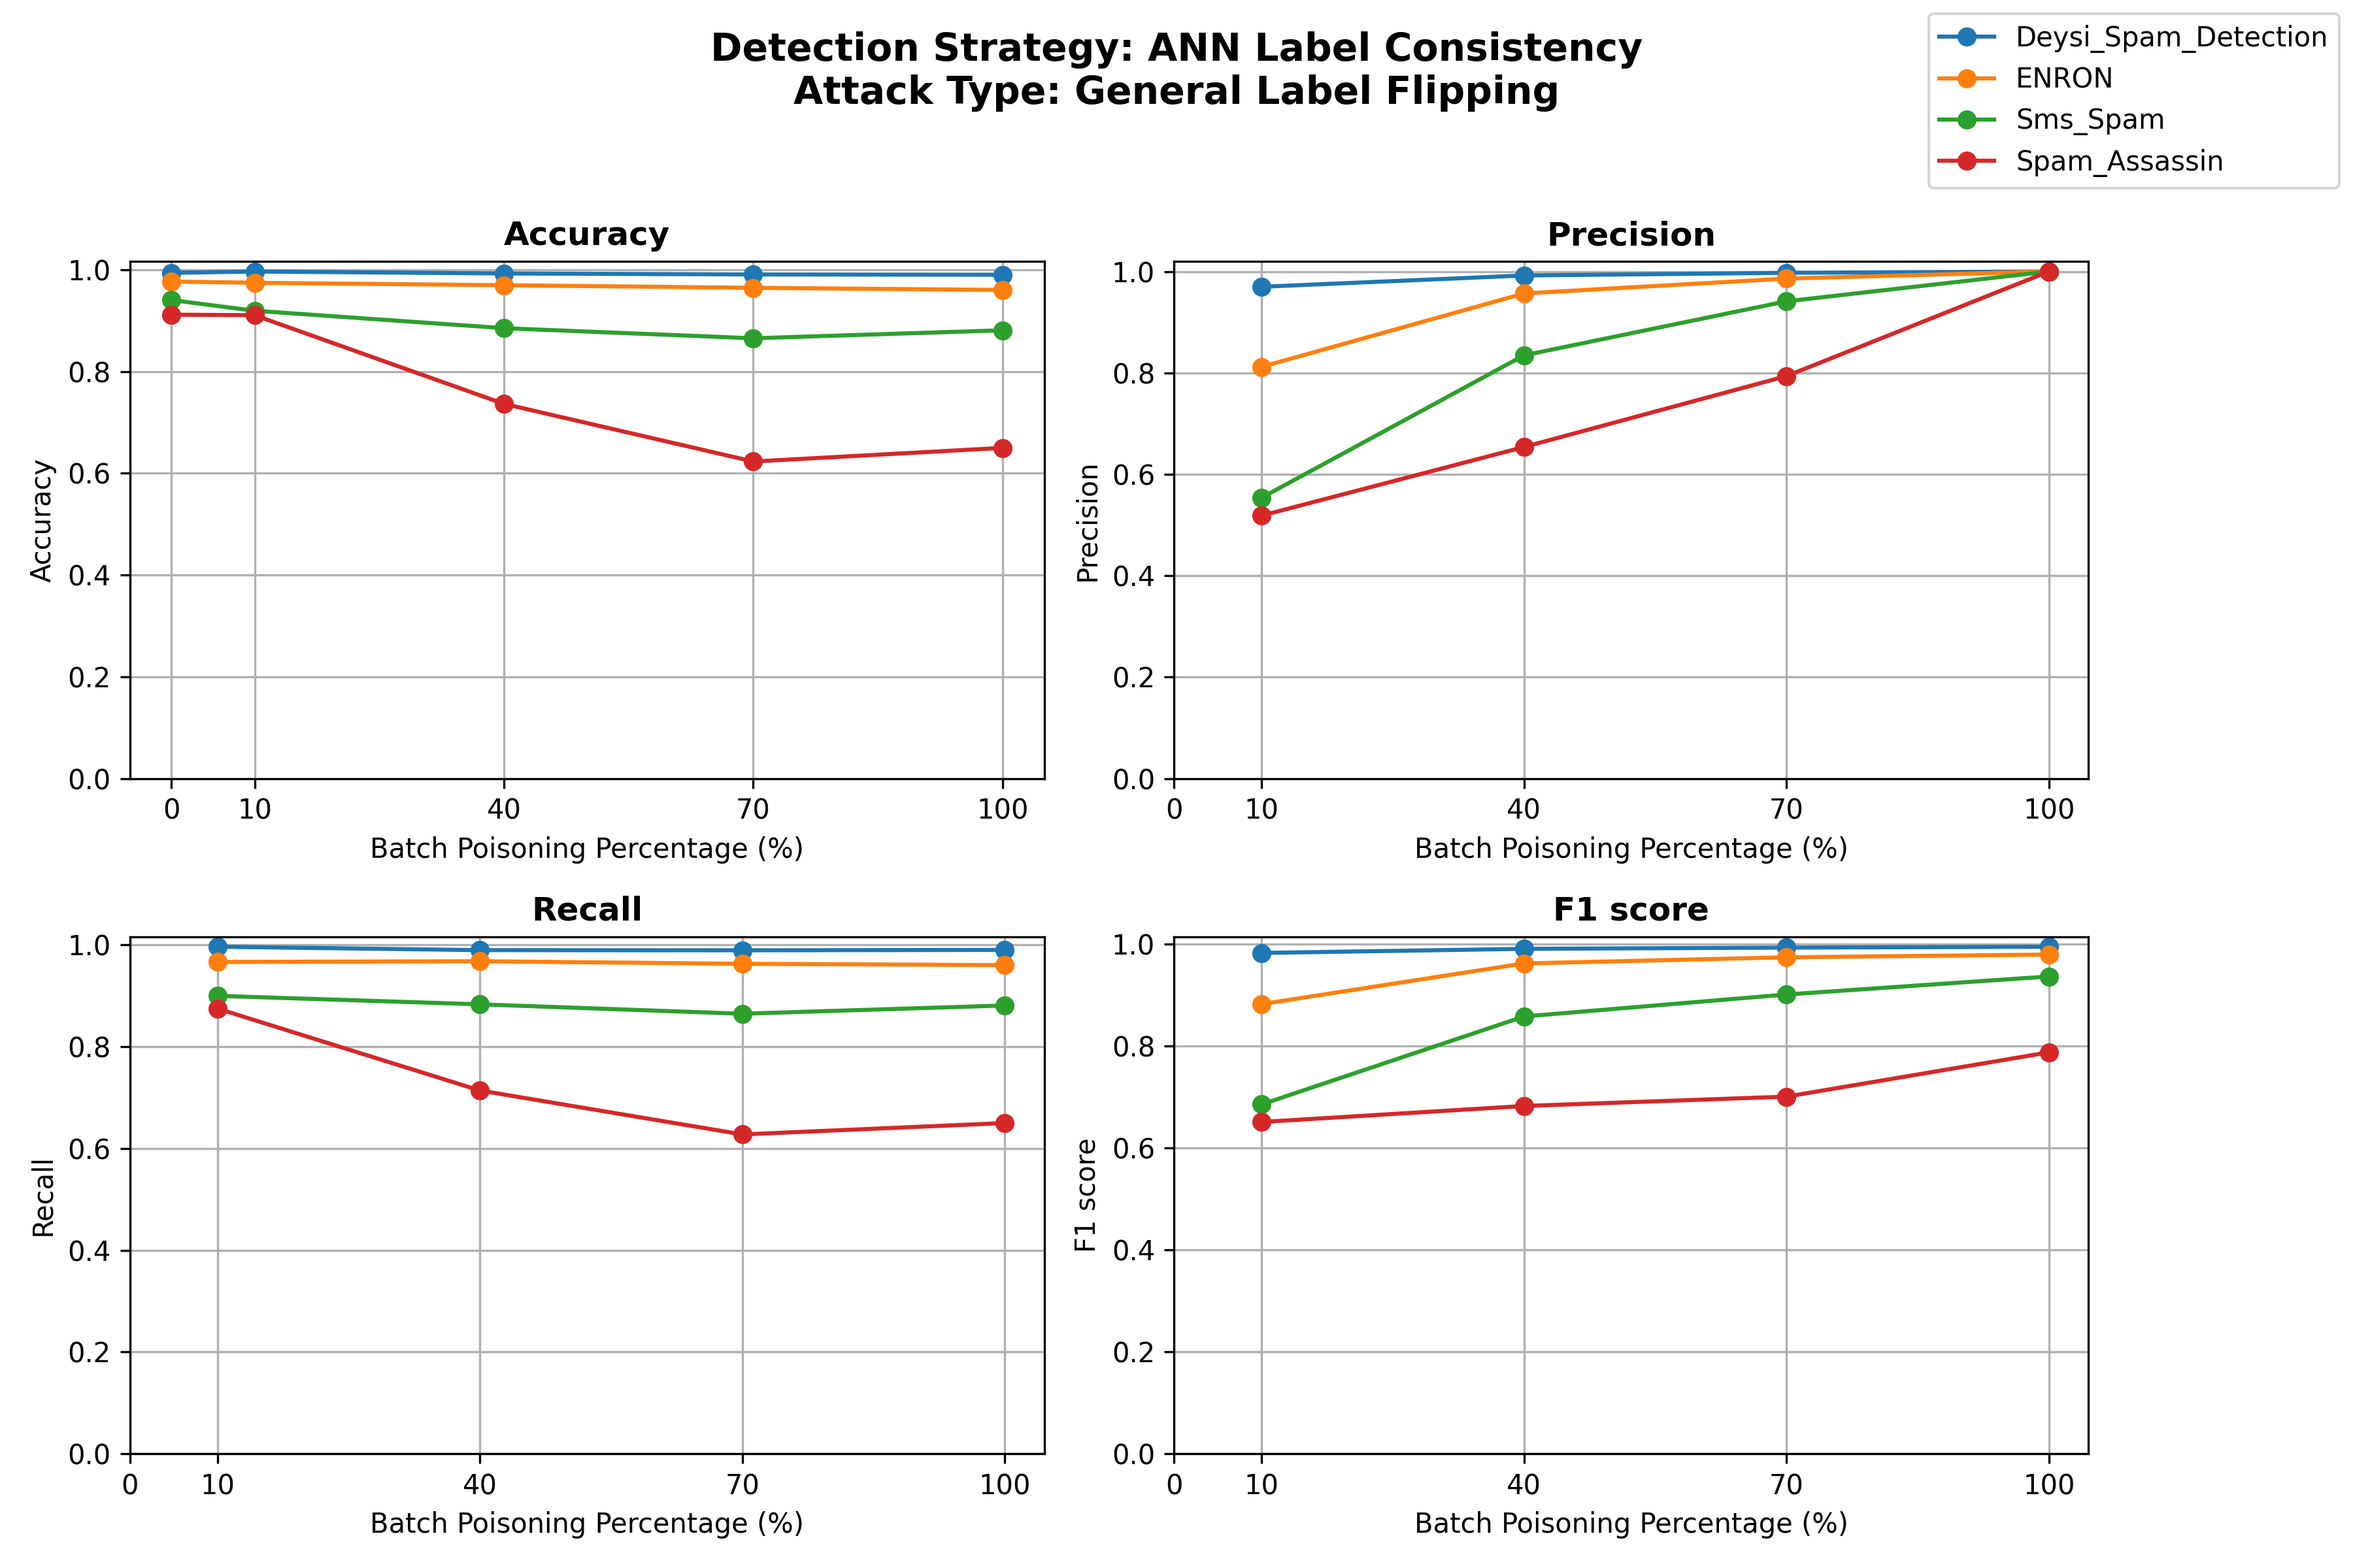
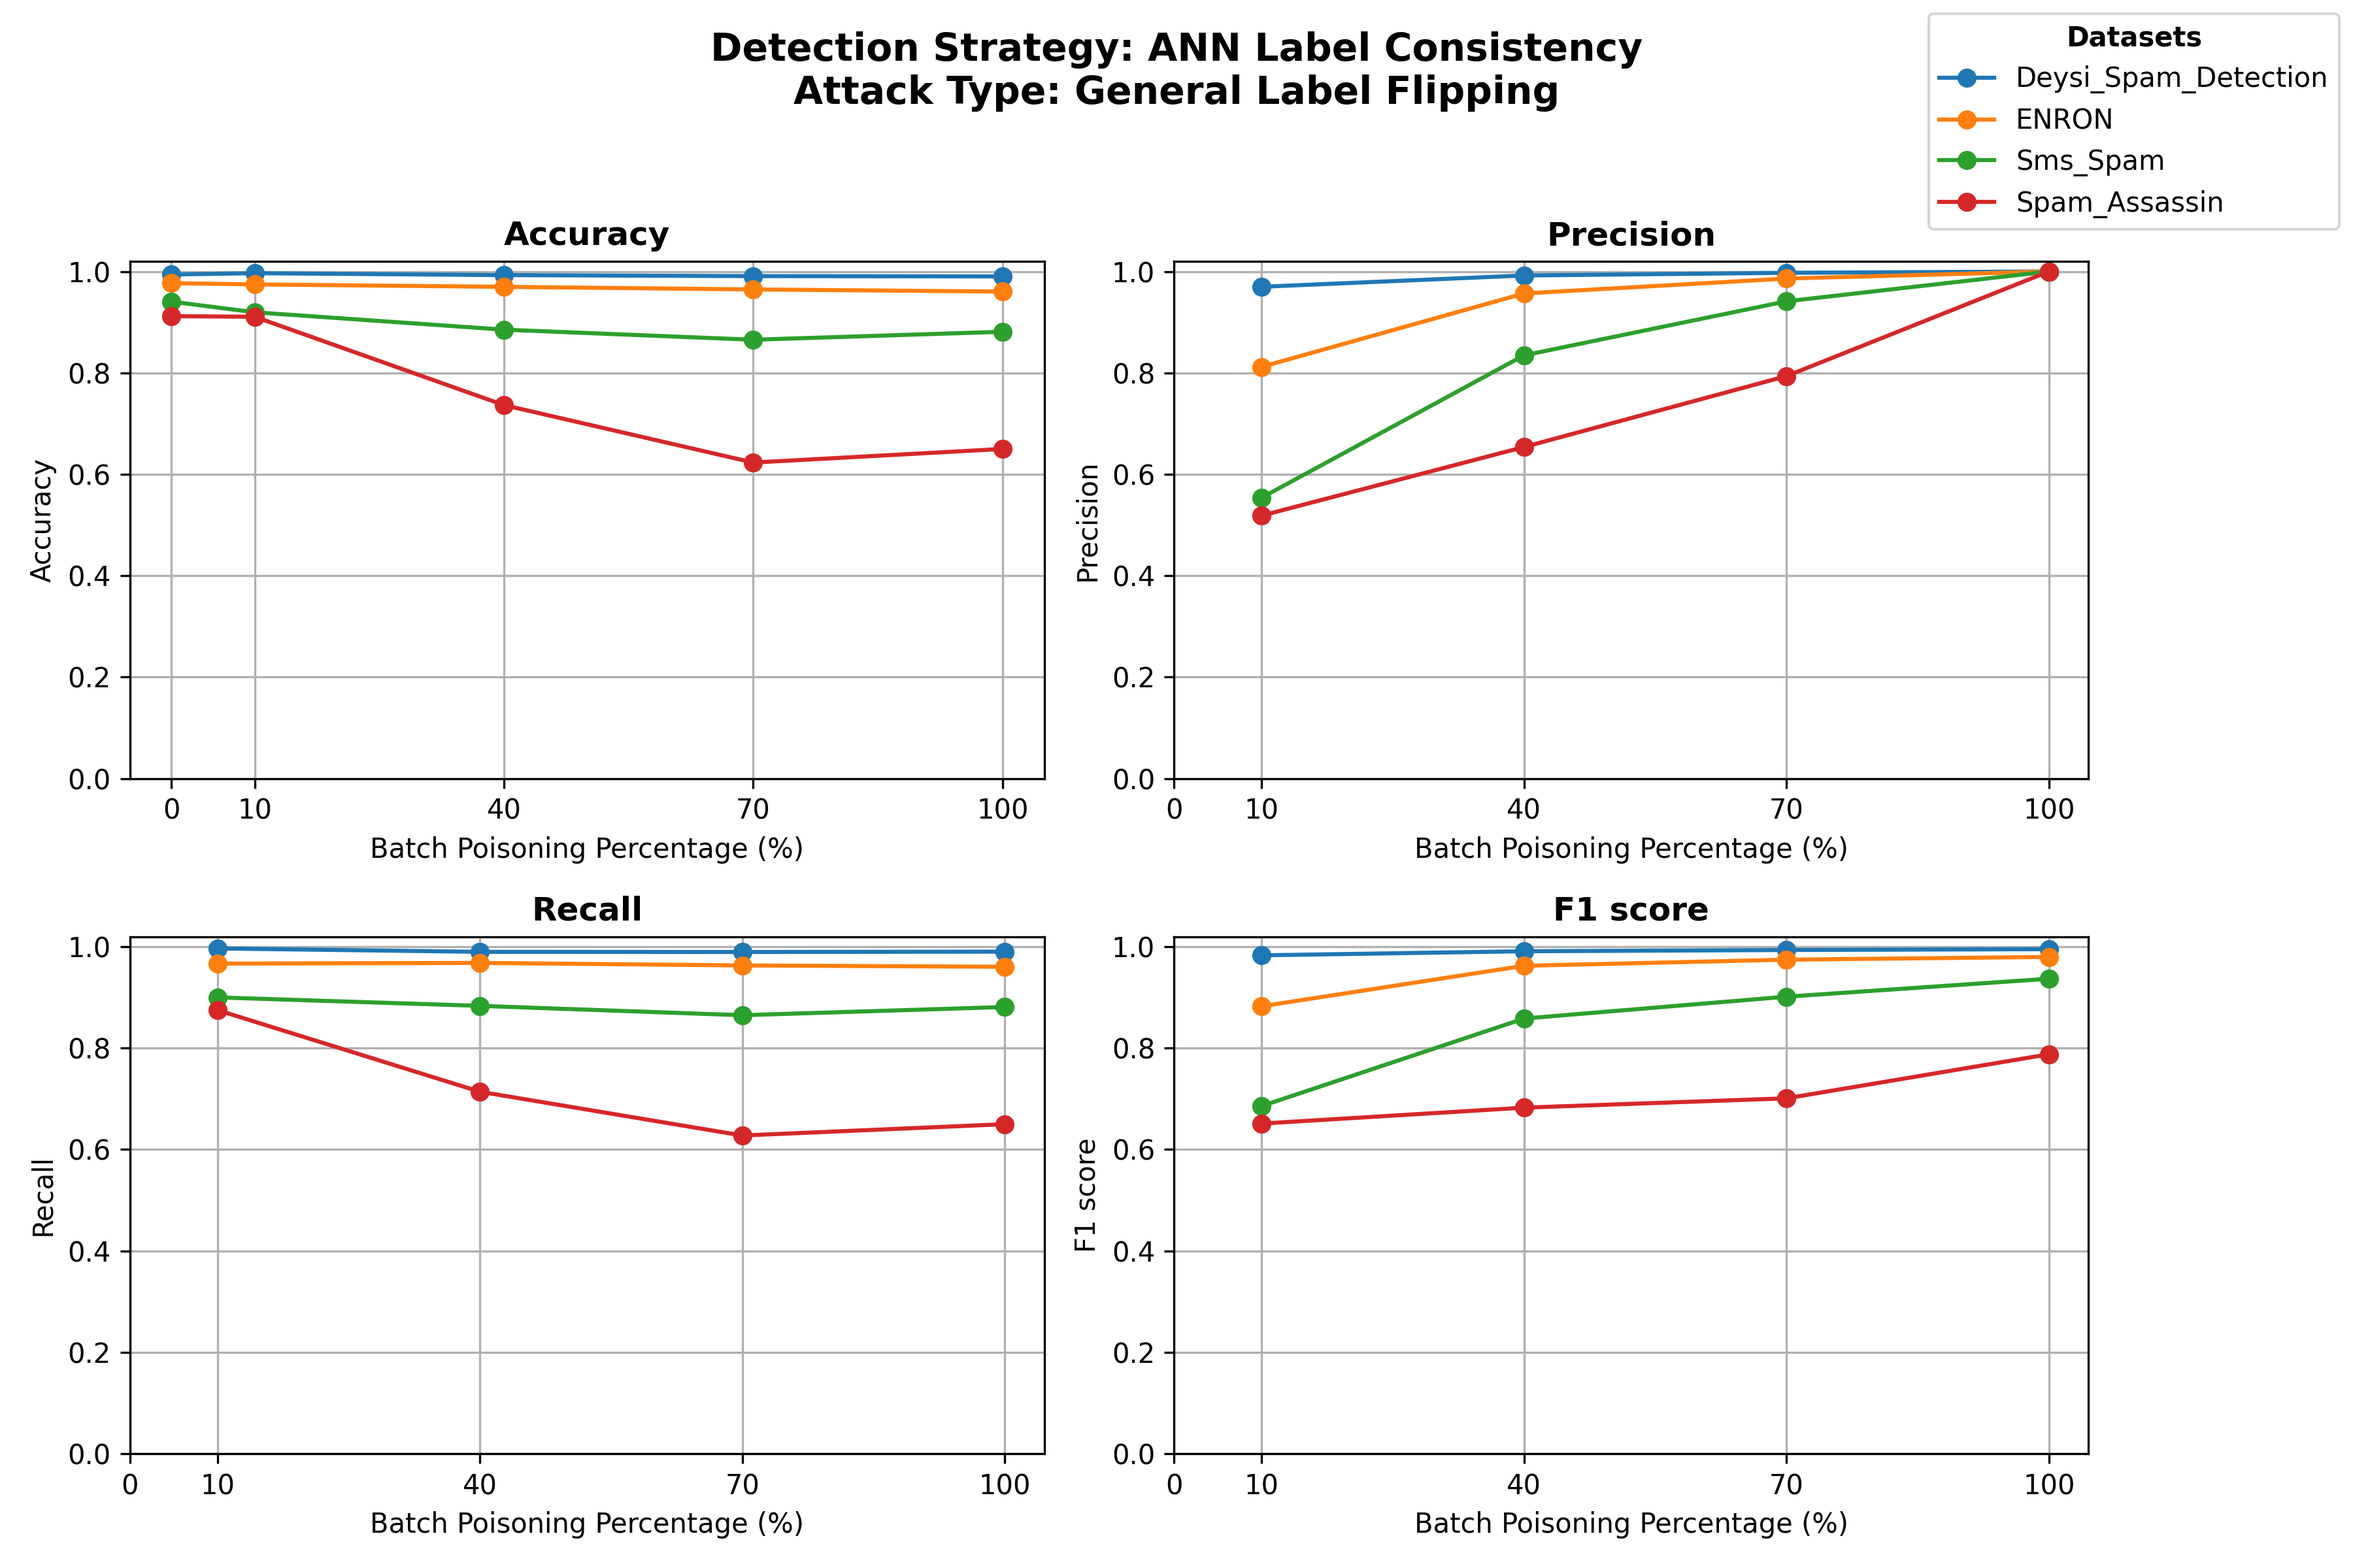
:sparkles: feat(rag-service): Removed dynamic y-axis scaling from plots with combined datasets

diff --git a/src/rag-service/detection_strategies_evaluation_experiments/graph_plotting/plot_metric_for_rq1_multi-plots_combined_datasets.py b/src/rag-service/detection_strategies_evaluation_experiments/graph_plotting/plot_metric_for_rq1_multi-plots_combined_datasets.py
@@ -49,21 +49,8 @@ def plot_all_metrics_combined(df, strategy, attack, output_dir="multi-plots-comb
             fontweight="bold"
         )
 
-        # Dynamic y-limits based on all datasets
-        y_values = subset[metric].dropna()
-
-        if not y_values.empty:
-            y_max = y_values.max()
-            y_min = y_values.min()
-
-            # Add padding only to the top
-            value_range = y_max - y_min
-            padding = max(0.02, value_range * 0.05)
-
-            upper = min(1.02, y_max + padding)
-
-            ax.set_ylim(0, upper)
-            ax.margins(y=0.02)  # ensures lines at 0 are still visible
+        ax.set_ylim(0, 1.02) # ensures lines at 1 are still visible
+        ax.margins(y=0.02)  # ensures lines at 0 are still visible
 
 
         ax.set_xticks([0, 10, 40, 70, 100])
@@ -80,7 +67,14 @@ def plot_all_metrics_combined(df, strategy, attack, output_dir="multi-plots-comb
 
     # One shared legend for all subplots
     handles, labels = axes[0].get_legend_handles_labels()
-    fig.legend(handles, labels, loc="upper right")
+    legend = fig.legend(
+        handles,
+        labels,
+        title="Datasets",
+        loc="upper right"
+    )
+
+    legend.get_title().set_fontweight("bold")
 
     plt.tight_layout(rect=[0, 0, 0.9, 0.95])
 
